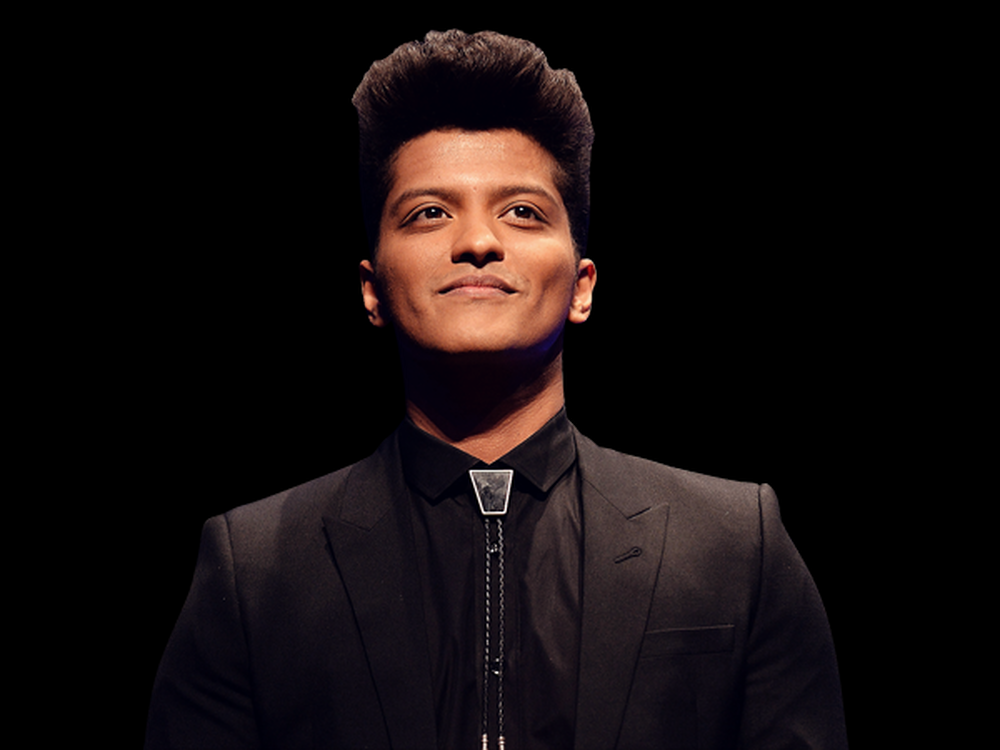
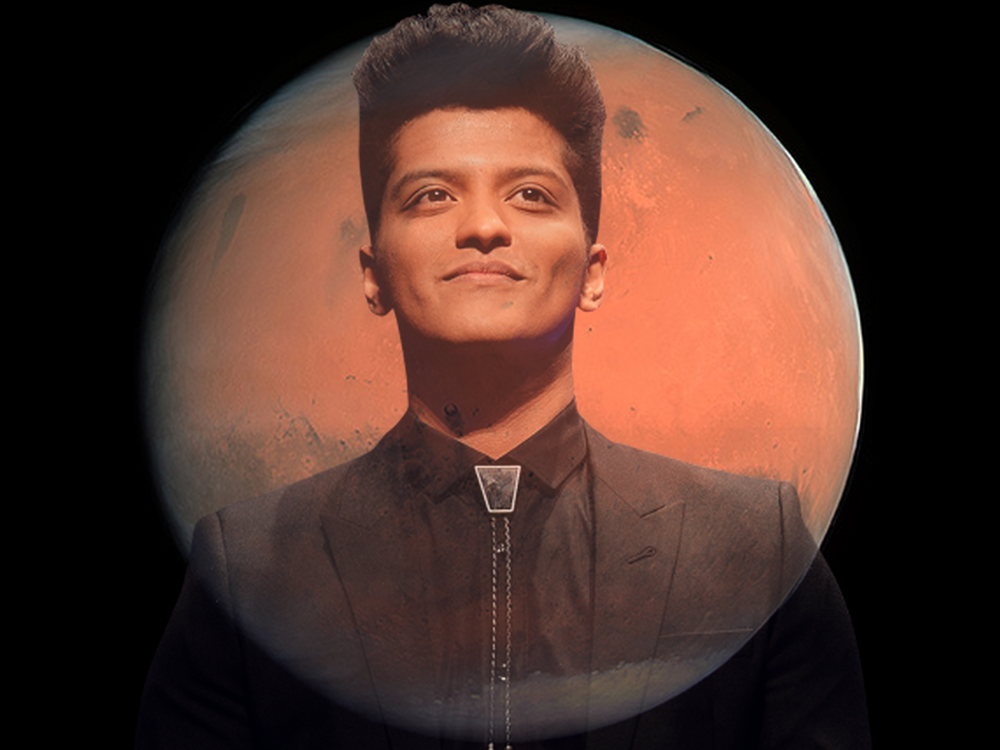
added new bruno background and button hover transition

diff --git a/style.css b/style.css
@@ -342,3 +342,8 @@ h1 {
 .glow-active {
     box-shadow: 0 0 10px 5px yellow;
 }
+
+button:hover {
+    transform: scale(1.1);
+    transition-duration: .1s
+}
